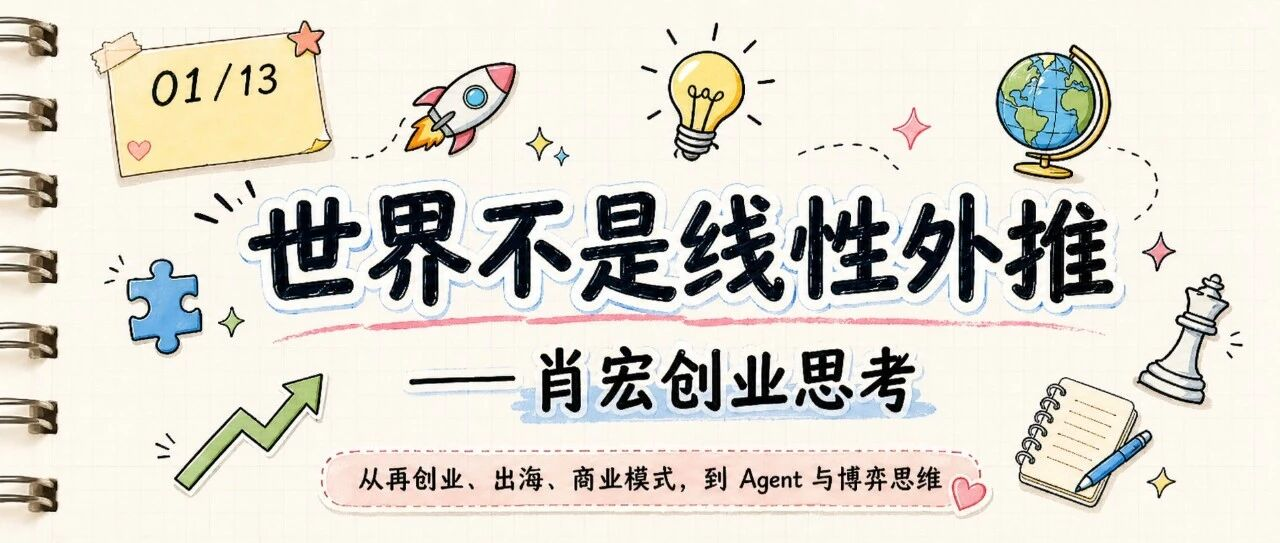
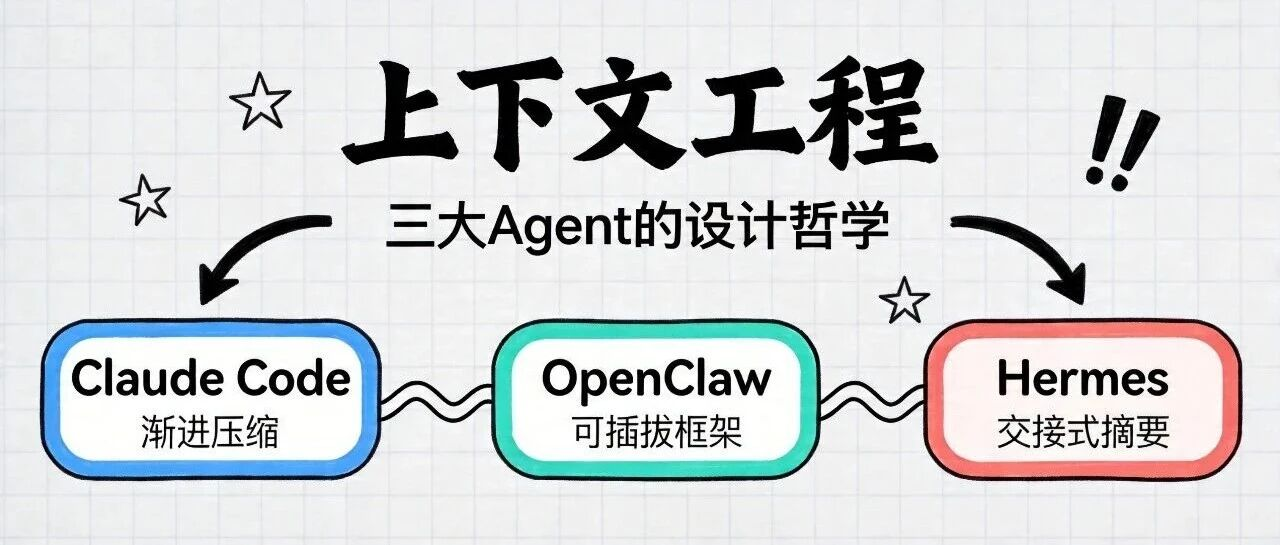
feat(article): add AI-tools album (19 articles) + fix skill fetcher
- Optimize wechat_article_fetcher.py: add extract_summary, extract_date, meta.json output
- batch_fetch_v2.py: use indexed dirs + read meta.json to avoid cover mix-ups
- Fetch AI-tools album: 19/20 articles downloaded, 1 skipped (content not found)
- Fix ai-product-03 cover image (was incorrectly using article-02's cover)
- articles.json now has 14 ai-product + 19 ai-tools articles

diff --git a/tania-replica/articles-data.js b/tania-replica/articles-data.js
@@ -19,7 +19,7 @@ const ARTICLES_DATA = {
       {
         "title": "深度解析三大 Agent 上下文工程：Claude Code、OpenClaw、Hermes 的设计哲学",
         "url": "http://mp.weixin.qq.com/s?__biz=MzI4MTA0NzkxMA==&mid=2648896698&idx=1&sn=966f92bb4fa66268fc15cb82cc2a7fb3&chksm=f3b972b3c4cefba57f8b4f1ea8570ba3aa623f6329d9be8a1c2b7c68b4462e085dd8803bfcb3#rd",
-        "summary": "Hermes最近成为了新的热点，除了自我进化机制， 更值得注意的是它在上下文管理上做了不少激进设计，比如更早触发压缩、把摘要做成交接文档。",
+        "summary": "Hermes最近成为了新的热点，除了自我进化机制， 更值得注意的是它在上下文管理上做了不少激进设计，比如更早触发压缩、把摘要做成交接文档。 阐述了Claude Code和Openclaw的Harness机制，能够让AI运行得更加稳定、完善。 在Harness之前，更底层的则是上下文工程，很多时候，模型的幻觉、失忆是因为上下文窗口乱了，",
         "cover": "./assets/articles/ai-product-03.jpeg",
         "date": ""
       },
@@ -104,7 +104,141 @@ const ARTICLES_DATA = {
   },
   "ai-tools": {
     "label": "AI工具",
-    "articles": []
+    "articles": [
+      {
+        "title": "当 Claude Code 遇上强迫症：AI 的工位终于有救了",
+        "url": "http://mp.weixin.qq.com/s?__biz=MzI4MTA0NzkxMA==&mid=2648896441&idx=1&sn=5729e04d8f0c82833f8450eb28055919&chksm=f3b975b0c4cefca6672315ff26f48b2624a710aa5089783e6e7592e1c5f7c504ee624cf74f19#rd",
+        "summary": "不知道你会不会和我一样，习惯在一个大屏幕下分屏，左边是终端窗口，右边是浏览器或者聊天窗口。 在等待 AI 实习生帮我们打工的时候，会去处理其他的事情，处理完毕后再会去看终端里 AI 给我们输出的内容，去做规划、做决策。 这样在处理别的事情时，也能够及时看到AI的打工进度，避免耽误AI的时间🐶 但在同时指挥多个AI，或者开启多个任务的时候，电脑桌面会变得特别乱。 查了一圈市场上的产品，都不符合...",
+        "cover": "./assets/articles/ai-tools-01.jpeg",
+        "date": "2026-03-16"
+      },
+      {
+        "title": "谷歌昨晚发布Nano Banana 2：文字能力大幅增强，速度加快，13种玩法，每一种都强到离谱",
+        "url": "http://mp.weixin.qq.com/s?__biz=MzI4MTA0NzkxMA==&mid=2648896127&idx=1&sn=326041d7d78ad3af006f6b6dacabb1ad&chksm=f3b97476c4cefd60667a8a2088380b1d20660834be6f5e85adcc421de2742c0531d7f5064c8e#rd",
+        "summary": "Nano Banana 2，在昨天晚上终于终于终于来了。 熬夜测试了13种有趣的玩法，现在分享给大家。 话不多说，我们，开始。 INFOGRAPHIC 生成百科全书式垂直长图，讲解nanobanana2对比nanobana、对比nanobanana pro的进化 首先我先问了Gemini 这代的Nanobanana有什么进化，几个版本有什么区别，它告诉我们核心是Pro的质量，Flash的速度...",
+        "cover": "./assets/articles/ai-tools-02.jpeg",
+        "date": "2026-02-27"
+      },
+      {
+        "title": "不会设计也能做轻松科技感PPT？这个的PPT Skills真的太强啦！！！",
+        "url": "http://mp.weixin.qq.com/s?__biz=MzI4MTA0NzkxMA==&mid=2648896056&idx=1&sn=2a899d747634e155a0b5fb3bdc5cd4d3&chksm=f3b97431c4cefd27a8bd113d1ce9bda74db21a6626e3ff224fcca5f75bd8ff3c642eeecfd833#rd",
+        "summary": "Hi，朋友们，新年快乐。 开年要写年度规划了吗~ 昨天刷Twitter的时候发现了一个宝藏的PPT Skills，可以让大家 告别AI味的套路PPT配色，但是又有超帅的科技感。 以下分别是我用Kimi Code和Claude Code + GLM 5.0用这个Skills输出的效果，左边是Kimi右边是GLM。 用自然语言描述你想要什么，AI就能够帮你把PPT做出来。 你只用关心更重要的每一...",
+        "cover": "./assets/articles/ai-tools-03.jpeg",
+        "date": "2026-02-26"
+      },
+      {
+        "title": "你的经验，可以复制粘贴了：Skills正在引发一场知识资产化革命",
+        "url": "http://mp.weixin.qq.com/s?__biz=MzI4MTA0NzkxMA==&mid=2648895239&idx=1&sn=cbd330d498f0852b25011721a2bbb083&chksm=f3b9690ec4cee018401d8830a6d22dbb976424ba5522a2e768051477c4beb3da76ee0086f414#rd",
+        "summary": "最近我发现我陷入了奇怪了循环，在AI时代本来应该让工作变得更高效，但同样流程格式的数据分析，用研报告，每次都要从头开始。 我还是要每次告诉它，这里的数据要用饼图，那个报告的内容要去做真实性验证。 一来一回5分钟过去了。 我在用最先进的人工智能，却做着最原始的重复劳动。 这样的重复，100次也不会让你的成长会变多一点。 直到我发现了Skills。 其实，AI最大的问题不是它不够聪明，而是它记不...",
+        "cover": "./assets/articles/ai-tools-05.jpeg",
+        "date": "2026-01-24"
+      },
+      {
+        "title": "开发了2个Skiils，用AI编程的方式写提示词，终于可以早点下班啦～",
+        "url": "http://mp.weixin.qq.com/s?__biz=MzI4MTA0NzkxMA==&mid=2648894979&idx=1&sn=38f7f26674bf543c45db050cbd5e40af&chksm=f3b9680ac4cee11c18d491e86441560cd7225c9094c9037b16c89da84c62526fd015e259aeab#rd",
+        "summary": "实在是被逼的没路走了。 作为一个重度 AI使用者和AI产品经理，我大概每周要修改几十上百次提示词。 以前我以为提示词最大的难点是写出来，需要思考提示词要具备什么能力，要用什么框架，要赋予AI什么技巧。 改提示词比写要痛苦10倍。 每次在GPT和Gemini的对话框里改提示词，感觉和赌博没区别。不知不觉提示词就被改得面目全非。 最可怕的不是改得不够好，而是改得看起来没啥问题。 我说：“把第三段...",
+        "cover": "./assets/articles/ai-tools-06.jpeg",
+        "date": "2026-01-12"
+      },
+      {
+        "title": "ChatGPT/Deepseek年度个人报告攻略，让AI总结你的这一年。",
+        "url": "http://mp.weixin.qq.com/s?__biz=MzI4MTA0NzkxMA==&mid=2648894756&idx=1&sn=621b70cc7f11f723fce9bb24d8500052&chksm=f3b96b2dc4cee23b833c90e17c5d665013e5227e5954c713ef09f49f89be6edea2fcdd45646b#rd",
+        "summary": "疯狂调试N个版本，终于魔改成功了我的ChatGPT年度总结。 我把2025年和GPT对话的数据都给了Gemini，原来我有过1730次发问，经历了3500条信息，输入了240万字。 在11月份时我处在职业的分岔路，和它对话了很久，它说的真好： 十一月的风最大，因为你想去的地方最远。 凌晨5点15分，是我和GPT最晚的对话记录，大概率是失眠了，然后在调提示词。 希望调试的真的是未来，也真的 在...",
+        "cover": "./assets/articles/ai-tools-07.jpeg",
+        "date": "2025-12-29"
+      },
+      {
+        "title": "年度复盘神器，AI一键直出高级感排版卡片+PPT",
+        "url": "http://mp.weixin.qq.com/s?__biz=MzI4MTA0NzkxMA==&mid=2648894699&idx=1&sn=a85b0aa0bd5fe15b2f9a7870deeafb21&chksm=f3b96ae2c4cee3f4f88a67468265a3a950010aca217753e8cb01f91734f9894f8bd118c41745#rd",
+        "summary": "最近刚写完年终复盘，但到了分享的时候我觉得文字还是太多了，读起来特别累。 在@AI启蒙小伙伴 老师提示词的基础上，疯狂调试了4天，我终于解决了这个大麻烦。 如果你需要做年终复盘、读书笔记、播客摘录或者长文总结，但又不想花时间做排版，这套一键生成高级感PPT的提示词非常适合你。 除了复盘，还有卡片模式，这个提示词也能够很好的帮助朋友们快速阅读。 这是我用十字路口的播客逐字稿生成的卡片，除了克莱...",
+        "cover": "./assets/articles/ai-tools-08.jpeg",
+        "date": "2025-12-24"
+      },
+      {
+        "title": "多维表格 x 即梦4.0 ：AI壁纸副业极简攻略",
+        "url": "http://mp.weixin.qq.com/s?__biz=MzI4MTA0NzkxMA==&mid=2648894495&idx=1&sn=80341d12398d2a12bda16d4b661fdadf&chksm=f3b96a16c4cee3006fe9f32baf2af4fdd527f381f35d3ac8085c14315eb756a7d53b77c4e355#rd",
+        "summary": "月入5k？AI壁纸可能是最懒的副业。 没花一分钱，没有复杂的提示词，也不用懂摄影和PS，从想法到成图，每次只要1分钟。 前几天想换壁纸，但苹果电脑的壁纸生态非常的弱，没办法直接在steam买壁纸应用，Appstore的壁纸应用也很少。 要么花很长时间大海捞针，要么就去小红书上花钱买，一套6到10块。。 但我换壁纸的频率太高了，长期付费也不现实。 而无论是应用还是小红书，付费买的壁纸AI痕迹很...",
+        "cover": "./assets/articles/ai-tools-09.jpeg",
+        "date": "2025-10-12"
+      },
+      {
+        "title": "不是哥们，一句话也能做PPT啊....",
+        "url": "http://mp.weixin.qq.com/s?__biz=MzI4MTA0NzkxMA==&mid=2648894455&idx=1&sn=50e1a7c89bf7af1e656a9a5a20ee9a33&chksm=f3b96dfec4cee4e89d8939312aba85024666d69b500723835120b298947d11298ca55118f7a6#rd",
+        "summary": "前几天参考 @摸鱼的小李 老师的PPT提示词，迭代了 一次性生成、PDF下载以及图形绘制能 试图用这个提示词解决我的PPT噩梦，但输出还不是特别稳定。 又再花了3天调整提示词结构，增加了分类型规划内容的能力，好消息是这样的输出终于比较稳定了，元宝的R1也能跑出来 坏消息是，最后的5分钟研究了一个新玩法，……&amp;*￥#^, 一句话还真的能做PPT啊。 你是一名专业的PPT设计师，请基于文...",
+        "cover": "./assets/articles/ai-tools-10.jpeg",
+        "date": "2025-09-28"
+      },
+      {
+        "title": "打工人PPT自救，用提示词让AI 黑奴帮你打工",
+        "url": "http://mp.weixin.qq.com/s?__biz=MzI4MTA0NzkxMA==&mid=2648894440&idx=1&sn=3a44a614e015adbb917306d0da906e28&chksm=f3b96de1c4cee4f700e14782af3834456b2701e939c9922203e4dd30ecc31f31f6f4e00c6b45#rd",
+        "summary": "作为打工人，PPT是一直逃不脱的噩梦，而更可怕的噩梦是又快又好看，但再厌恶paperwork，为了生存也得上。 传统方法耗时耗力，本来以为AI是个救星，但测试了几款发现大多都是一波流，要自己改或者有限度的改，文字的堆砌感也非常重，要变好就要我加钱了🐶。 于是，我决定，自己折腾！以下是肝了3天的成效（优雅。 我把段永平的50条语录发给了AI，让它们帮我做PPT Kimi做的，坦白说视觉表现上，...",
+        "cover": "./assets/articles/ai-tools-11.jpeg",
+        "date": "2025-09-24"
+      },
+      {
+        "title": "AI阅读系统 | 和阅读焦虑说byebye（二合一纯享版）",
+        "url": "http://mp.weixin.qq.com/s?__biz=MzI4MTA0NzkxMA==&mid=2648894354&idx=1&sn=2e33d18de1d2a58968e0d79cbd2444aa&chksm=f3b96d9bc4cee48d4173d834abd4c9cdb1d927deb47fe40b7fc103efbe75648349782403a8ab#rd",
+        "summary": "在AI自媒体上迈出了小小的一步，WayToAGI和飞行社都收录啦~值得开心，也分享一下整合的全文。 提示词做卡片已经不新鲜了，然后最近思考了下能不能在提示词的基础上往前走一步，于是用飞书多维表格制作了一个AI文章阅读系统。 提示词参考了云舒老师的思路，进行了简化，优化一下性能，并且用于适配飞书场景。 最核心的问题其实就是，文章收藏了懒得看。 1、输入链接，输出卡片 省去了复制内容给AI的环节...",
+        "cover": "./assets/articles/ai-tools-12.jpeg",
+        "date": "2025-09-17"
+      },
+      {
+        "title": "AI速读神器上线，和阅读焦虑说byebye（附工作流+提示词）",
+        "url": "http://mp.weixin.qq.com/s?__biz=MzI4MTA0NzkxMA==&mid=2648894245&idx=1&sn=2a97944290cbbb736d796a9c16123d5f&chksm=f3b96d2cc4cee43aebb97d07a6bf2dad2edd2c437280c7eef2fe65d4e0fac3d53e37b2ca230e#rd",
+        "summary": "上一篇文章分享的阅读管理系统，有很多朋友去使用了。 但很快有朋友反馈，手动复制内容还是很麻烦，尤其在手机上。其次卡片的信息还是比较少，看完害得纠结值不值得读。 输入链接直出张高质量的速读卡片。 2.0版本解放双手，卡片知识密度翻倍，阅读焦虑瞬间清零。 用同一篇文章来对比一下差异。 简单文字拼接，就像速览笔记。 2）横版：信息密度提升，重点一目了然 3）竖版：彻底解决速读问题 竖版手机友好，而...",
+        "cover": "./assets/articles/ai-tools-13.jpeg",
+        "date": "2025-09-15"
+      },
+      {
+        "title": "收藏夹是知识的坟场？用AI轻松治愈阅读焦虑",
+        "url": "http://mp.weixin.qq.com/s?__biz=MzI4MTA0NzkxMA==&mid=2648894222&idx=1&sn=5f0bf28e979fd170bb1db41b9ab81eae&chksm=f3b96d07c4cee411fd59df16ce19d6a3d9de150276c0618b60f2ab3ceaa96995aa7b30d6c9b2#rd",
+        "summary": "看到一篇好的文章，下意识点个收藏想着晚点再看，然后它就和上千个链接一起，被埋进名为“收藏”的坟墓里。 那种“假装学习”的满足感，转眼就变成了无尽的阅读焦虑。 每次打开几百篇的收藏夹，总是一脸茫然：当时为啥要收藏，讲的是什么，信息会不会过期了。 直到最近用Deepseek、Kimi，还有飞书多维表格，给自己搭建了一套阅读管理系统。 1）1分钟生成速读卡片 把内容和链接丢进去，Kimi会立刻提炼...",
+        "cover": "./assets/articles/ai-tools-14.jpeg",
+        "date": "2025-09-14"
+      },
+      {
+        "title": "整理了600份大佬的演讲和访谈，站在巨人的肩膀上思考。",
+        "url": "http://mp.weixin.qq.com/s?__biz=MzI4MTA0NzkxMA==&mid=2648894188&idx=1&sn=07767c0fdfbed82b9861b630e3604f64&chksm=f3b96ce5c4cee5f3f24d926663d3dfd0283f2c667bd794d891806585f617388ce39669e58059#rd",
+        "summary": "花了 1小时，复刻出了巨头强化版的“自己”。 他不仅能够回答问题，还继承了600+份马斯克、乔布斯、王兴等巨头的演讲、访谈的理念，融合了我自己知识积累，让我站在巨人的肩膀上思考。 现在我们想问一个问题，第一反应是问AI。 但AI的回答容易泛泛而谈，打开联网搜索， 数据源存在大量噪声，重复、二次加工、低质量的知识远多于高质量的知识，而如果不打开联网搜索，知识可能滞后。 更关键的是它不知道我读过...",
+        "cover": "./assets/articles/ai-tools-15.jpeg",
+        "date": "2025-09-07"
+      },
+      {
+        "title": "用NANO BANANA把小猫的照片做成手办吧！",
+        "url": "http://mp.weixin.qq.com/s?__biz=MzI4MTA0NzkxMA==&mid=2648894176&idx=1&sn=4a4217d39b8baec6eead230c4e532b61&chksm=f3b96ce9c4cee5ffd8391ea2cb8accf67351d4e37f956f2743bf1ee81de6d96f9cc22fdb696c#rd",
+        "summary": "花了5分钟，我用GPT+NANO BANANA给自己的小猫做了几个手办，效果真的非常惊喜。 手绘、表情包、高糊的照片，都能够立体化还原成小模型。 它能够自动补全缺失的肢体细节，还恰好的猜中了我家小猫是小胖子。 清晰度部分提升明显，体态也会做优化微调，这里我最满意是我小猫鼻子的痣也能够被很好的还原，目前大部分的AI生图都很难找到这个细节。 而表情包，也能够很轻松的变成立体的画面，调整姿态。但如...",
+        "cover": "./assets/articles/ai-tools-16.jpeg",
+        "date": "2025-09-01"
+      },
+      {
+        "title": "置身事外一年，不如置身事内一个月。",
+        "url": "http://mp.weixin.qq.com/s?__biz=MzI4MTA0NzkxMA==&mid=2648894143&idx=1&sn=5538bdc38422a20a2d73b45b55c39779&chksm=f3b96cb6c4cee5a0bd94c03b6f3c405729fc07f19f0bfbef49d0eef6d9a6bea6c12f4523946d#rd",
+        "summary": "在去年7月的时候，我就在思考一个问题，怎么样补充企业的销售能力。 它的工序要足够简单，不然我做不出来。它也不能太简单，不然我抢不过别人。 它的盈利模式要足够直接，不能赔本赚吆喝。 它未来要能够标准化，不然我开不了连锁店。它还要有延展性，具备可持续的发展空间。 这个方向，在一开始就被我否定了， 周期长，就无法敏捷试错。成本高，失败的代价就越沉重。但最大的理由是：千行百业，我不知道要选哪个方向，...",
+        "cover": "./assets/articles/ai-tools-17.jpeg",
+        "date": "2025-08-22"
+      },
+      {
+        "title": "0代码超简单，用Coze打造你的社群日报工具",
+        "url": "http://mp.weixin.qq.com/s?__biz=MzI4MTA0NzkxMA==&mid=2648894036&idx=1&sn=8b1ced22dbfc22970ac25a7c9c898933&chksm=f3b96c5dc4cee54b18474c8e5490a65c402525364f2b2797a7edec4a9bd761863598618f5302#rd",
+        "summary": "AI编程是很好的实现个人想法的工具，但在落地的时候我们应该评估其实现方案。如果你的流程并不复杂，也没有什么算法流程对接复杂API的时候，个人建议还是使用Coze。 扣子是字节的无代码应用开发平台，在工作流场景核心提供2大能力： 如果你不需要界面，也不需要变成一个AI会话应用，那其实只要建立工作流就可以使用了。 今天要给大家分享的是怎么样 使用扣子打造社群日报的工具 ，学习了基础的用法，我们也...",
+        "cover": "./assets/articles/ai-tools-18.jpeg",
+        "date": "2024-06-12"
+      },
+      {
+        "title": "你能用嘴来画一幅画吗？GPT-4o：我可以！",
+        "url": "http://mp.weixin.qq.com/s?__biz=MzI4MTA0NzkxMA==&mid=2648893815&idx=1&sn=72efffaeb37c831f7a959a540e7c12cf&chksm=f3b96f7ec4cee66895b6528d1a60a8a250186ff6f94ef95705b18dfcc470c33da0ded4f25fa0#rd",
+        "summary": "在去年7月份我才开始正儿八经拥抱AI，大概也算赶上了AI的晚班车，最早开始玩的是文本生成，然后是图片、视频、编程。 我尝试过用AI来画儿童绘本，但生成的效果总是差强人意，对中文的适配也不友好，而liblib又过于复杂，所以搁置了。 前几天OpenAI上线的GPT-4o生图功能，今天充了个钱实测了一下，充钱果然能变强。这一切都不一样了， 我不再需要翻译、垫图也不再需要复杂的工作流，它也不再那么...",
+        "cover": "./assets/articles/ai-tools-19.jpeg",
+        "date": "2025-03-28"
+      },
+      {
+        "title": "每天换一张AI画的壁纸，皮卡丘真可爱啊。",
+        "url": "http://mp.weixin.qq.com/s?__biz=MzI4MTA0NzkxMA==&mid=2648893736&idx=1&sn=cf80bdaebbd6d493539685404654fe05&chksm=f3b96f21c4cee6370bb396d84f4e33f94c41c6302d48c584c5cf4e016f40237def0d69aabfde#rd",
+        "summary": "最近看了篇文章说现在很多小红书的达人其实是AI画出来的，然后批量做矩阵。其次很多人也在用AI绘画做简单的头像、壁纸售卖。 虽然还没有想好要做什么赛道，但也许播下足够多的种子就能够开花。 作为一直画画很差劲的同学，也想着能够比较熟练的掌握这门技巧，于是开始实操研究AI到底能够帮我画什么。 测试的5-6个工具里面，比较好用的还是MJ、Liblib。MJ的操作更加简单，Liblib则更加专业，但目...",
+        "cover": "./assets/articles/ai-tools-20.jpeg",
+        "date": "2024-10-23"
+      }
+    ]
   },
   "ai-coding": {
     "label": "AI编程",

diff --git a/tania-replica/index.html b/tania-replica/index.html
@@ -51,7 +51,7 @@
     .filter-bar { display:flex; flex-wrap:wrap; gap:0.5rem; margin:1rem 0 1.5rem; }
     .filter-btn { padding:0.4rem 0.9rem; border-radius:var(--border-radius); border:0.25px solid var(--color-border); background:var(--color-background-card); font-size:0.9rem; cursor:pointer; transition:all 0.15s; color:var(--color-text); }
     .filter-btn:hover { border-color:var(--color-primary); }
-    .filter-btn.active { background:var(--color-primary); color:#fff; border-color:var(--color-primary); }
+    .filter-btn.active { background:var(--color-primary) !important; color:var(--color-text-on-accent) !important; border-color:var(--color-primary) !important; }
     .knowledge-card, .skill-card { display:block; padding:1.25rem; border:0.25px solid var(--color-border); border-radius:var(--border-radius); background:var(--color-background-card); transition:all 0.15s; text-decoration:none; color:inherit; }
     .knowledge-card:hover, .skill-card:hover { border-color:var(--color-primary); transform:translateY(-2px); }
     .install-box { background:var(--gray-9); color:var(--gray-1); padding:1rem; border-radius:var(--border-radius); display:flex; align-items:center; gap:0.75rem; }